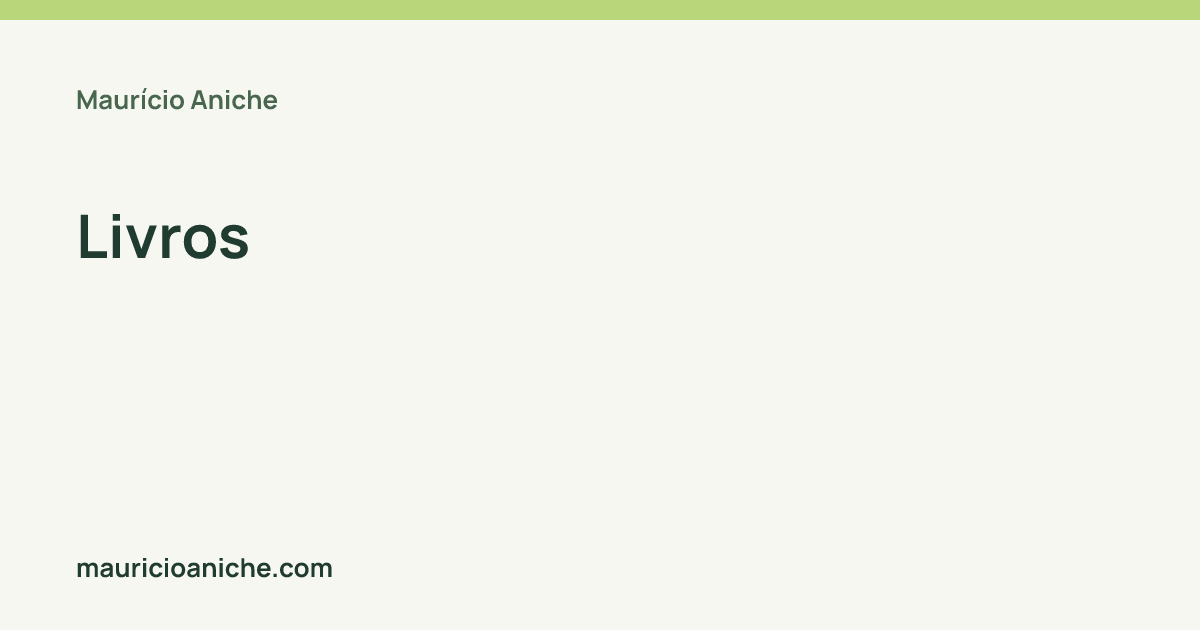
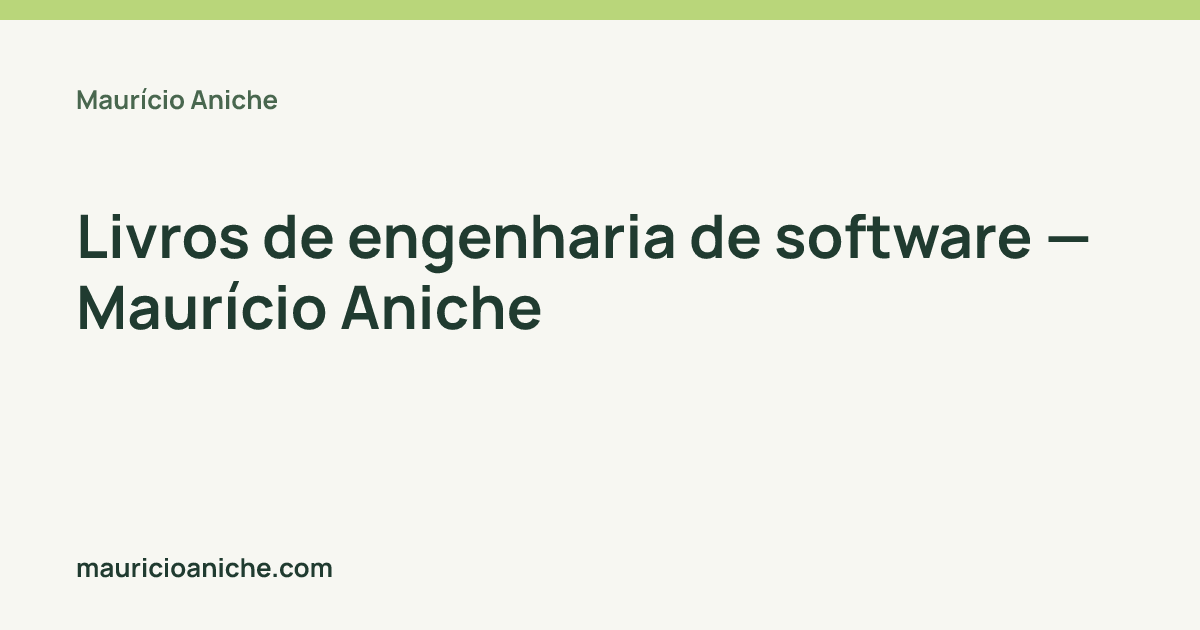
Give fourteen fixed pages specific search titles and descriptions

Changed region(s): [[0.0617, 0.3317, 0.925, 0.5429]]

diff --git a/_includes/head.html b/_includes/head.html
@@ -1,7 +1,7 @@
 <head>
   <meta charset="utf-8">
   <meta name="viewport" content="width=device-width, initial-scale=1">
-  {% assign title = page.title | default: site.title %}
+  {% assign title = page.seo_title | default: page.title | default: site.title %}
   {% assign canonical = page.url | replace: 'index.html', '' | absolute_url %}
   {% assign description = page.description | default: page.excerpt | default: site.description | strip_html | normalize_whitespace %}
   {% assign share_image_path = page.social_image | default: page.image | default: site.data.og_images[page.url] | default: site.default_og %}

diff --git a/scripts/og-manifest.rb b/scripts/og-manifest.rb
@@ -10,5 +10,5 @@ puts JSON.generate(entries.select { |item|
     item.data['published'] != false && item.data['noindex'] != true && item.data['sitemap'] != false &&
     (!item.respond_to?(:date) || site.future || item.date <= site.time)
 }.map { |item|
-  { url: item.url, title: item.data['title'], type: item.data['layout'] == 'post' ? 'Artigo' : 'Maurício Aniche' }
+  { url: item.url, title: item.data['seo_title'] || item.data['title'], type: item.data['layout'] == 'post' ? 'Artigo' : 'Maurício Aniche' }
 })

diff --git a/content/publications/industry.md b/content/publications/industry.md
@@ -1,5 +1,7 @@
 ---
 title: Colaborações com a indústria
+seo_title: Pesquisa com a indústria — Maurício Aniche
+description: Trabalhos de pesquisa aplicada de Maurício Aniche com parceiros da indústria, conectando desafios reais de desenvolvimento à engenharia de software.
 layout: page
 permalink: /publications/industry
 ---

diff --git a/content/publications/per-topic.md b/content/publications/per-topic.md
@@ -1,5 +1,7 @@
 ---
 title: Publicações por tema
+seo_title: Publicações científicas por tema — Maurício Aniche
+description: 'Explore as pesquisas de Maurício Aniche por tema: manutenção, testes, aprendizado de máquina, monitoramento e educação em engenharia de software.'
 layout: page
 permalink: /publications/topic
 ---

diff --git a/content/publications/per-venue.md b/content/publications/per-venue.md
@@ -1,5 +1,7 @@
 ---
 title: Publicações por veículo
+seo_title: Publicações científicas por veículo — Maurício Aniche
+description: Encontre artigos científicos de Maurício Aniche organizados por periódicos e conferências de engenharia de software, como TSE, EMSE e ICSE.
 layout: page
 permalink: /publications/venue
 ---

diff --git a/content/blog/blog-and-talks.md b/content/blog/blog-and-talks.md
@@ -1,5 +1,7 @@
 ---
 title: Palestras, podcasts e entrevistas
+seo_title: Palestras, podcasts e entrevistas — Maurício Aniche
+description: Palestras, entrevistas, podcasts e artigos externos de Maurício Aniche sobre testes, design de software, pesquisa, liderança e carreira.
 layout: default
 permalink: /blog-and-talks
 ---

diff --git a/content/publications/education.md b/content/publications/education.md
@@ -1,5 +1,7 @@
 ---
 title: Pesquisa em educação
+seo_title: Pesquisa em educação — Maurício Aniche
+description: Artigos de Maurício Aniche sobre educação em Ciência da Computação e ensino de engenharia de software, a partir de sua experiência como professor.
 layout: page
 permalink: /research/education
 ---

diff --git a/content/publications/tools.md b/content/publications/tools.md
@@ -1,5 +1,7 @@
 ---
 title: Ferramentas de pesquisa
+seo_title: Ferramentas de pesquisa — Maurício Aniche
+description: Ferramentas e protótipos de pesquisa de Maurício Aniche para métricas Java, análise estática, testes automatizados e monitoramento de software.
 layout: page
 permalink: /research/tools
 ---

diff --git a/content/research/research.md b/content/research/research.md
@@ -1,5 +1,7 @@
 ---
 title: Pesquisa em engenharia de software
+seo_title: Pesquisa em engenharia de software — Maurício Aniche
+description: Conheça a trajetória de pesquisa de Maurício Aniche em testes, manutenção, aprendizado de máquina e monitoramento de software.
 layout: page
 permalink: /research
 ---

diff --git a/content/blog/podcasts-br.md b/content/blog/podcasts-br.md
@@ -1,5 +1,7 @@
 ---
 title: Podcasts e entrevistas
+seo_title: Podcasts e entrevistas — Maurício Aniche
+description: Ouça as participações de Maurício Aniche em podcasts e entrevistas, em português e inglês, sobre engenharia de software, educação e carreira.
 layout: default
 permalink: /podcasts-br
 ---

diff --git a/content/publications/favorites.md b/content/publications/favorites.md
@@ -1,5 +1,7 @@
 ---
 title: Publicações em destaque
+seo_title: Publicações científicas em destaque — Maurício Aniche
+description: Uma seleção de trabalhos científicos favoritos de Maurício Aniche sobre qualidade, testes e manutenção de software.
 layout: page
 permalink: /publications/favorites
 ---

diff --git a/content/books/books.md b/content/books/books.md
@@ -1,5 +1,7 @@
 ---
 title: Livros
+seo_title: Livros de engenharia de software — Maurício Aniche
+description: Livros de Maurício Aniche sobre testes de software, TDD, design orientado a objetos, SOLID e programação, publicados pela Manning e Casa do Código.
 layout: default
 permalink: /books
 ---
